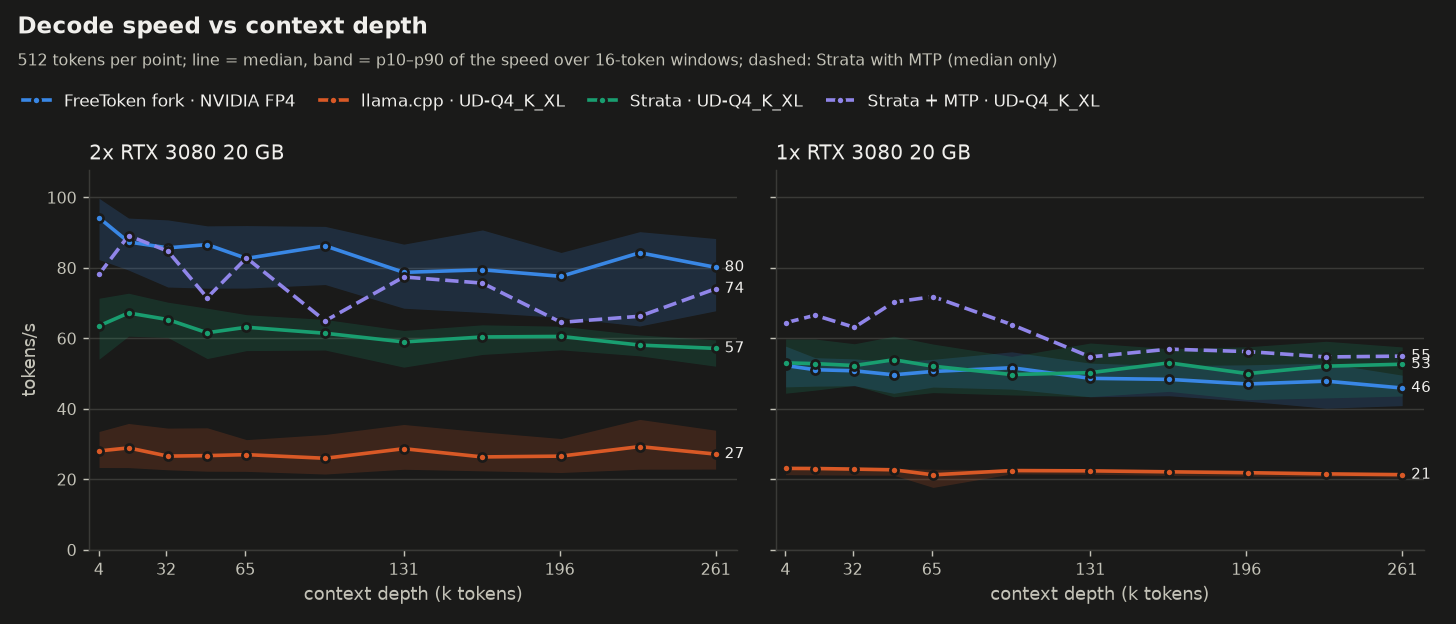
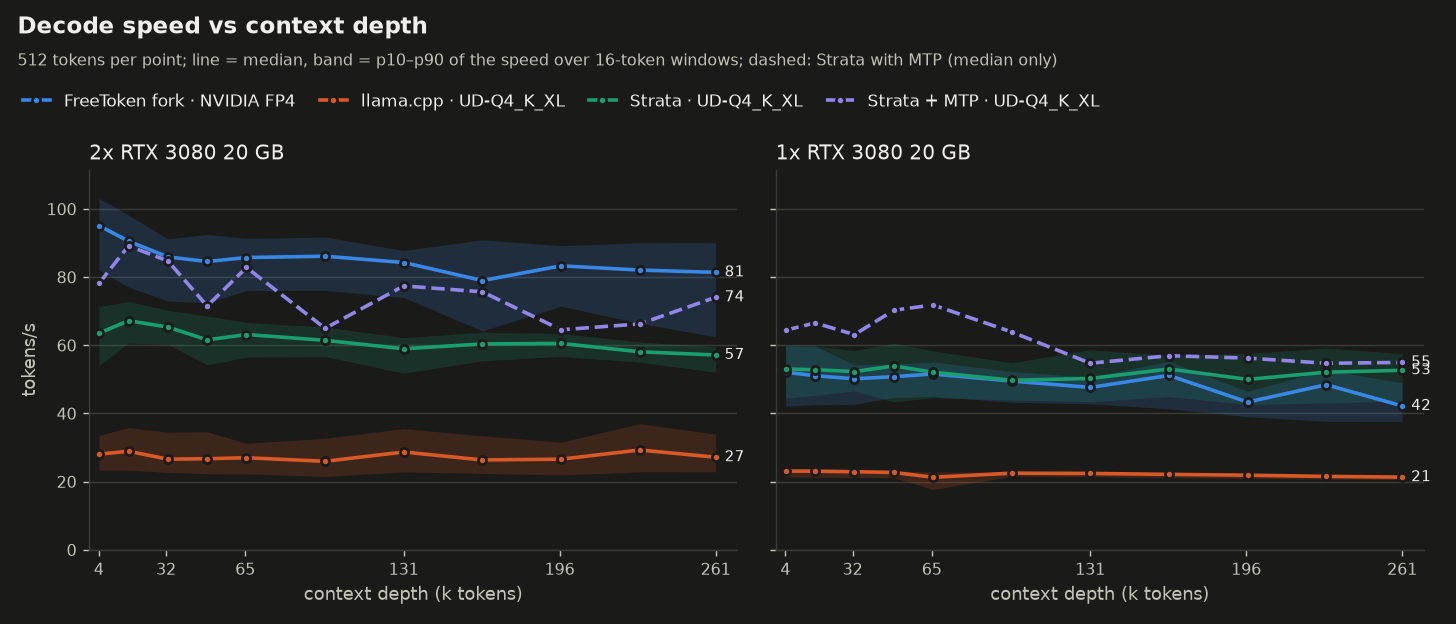
docs(readme): current per-setup numbers, short configuration guide, re-measured charts
FP4 with serve.sh defaults on main 813b883: decode, 16k prefill and max context for one and
two 16/20 GB GPUs; FreeToken's lines in the llama.cpp/Strata charts re-run (theirs kept from
2026-10-28). One 16 GB GPU now holds 208k tokens of context.

Assisted-by: Claude Opus 5.5

Changed region(s): [[0.0309, 0.3045, 0.989, 0.7003], [0.0309, 0.6394, 0.5254, 0.7917], [0.5254, 0.7308, 0.989, 0.7917]]

diff --git a/README.md b/README.md
@@ -8,37 +8,23 @@ MoE experts are pinned to host RAM. There's no setting for context length. As a 
 
 ## Benchmarks
 
-FP4 with default settings: RTX 3080s on PCIe 4.0 x8, 96 GB of DDR5. For 16GB tests I just limited my 3080 20GB to max 16GB used. Both 3080s have unlocked ReBAR and P2P.
+FP4, `scripts/serve.sh` defaults, measured 2026-11-15.
 
-### **One GPU at PCIe 4.0 x8**
+| Setup | Decode | 16k prefill (first / warm) | Max context |
+|---|---|---|---|
+| 1x 16 GB | 49 tok/s | 2,450 / 2,720 tok/s | 208k |
+| 1x 20 GB | 54 tok/s | 2,590 / 2,720 tok/s | 262k |
+| 2x 16 GB | 75 tok/s | 3,230 / 3,450 tok/s | 262k |
+| 2x 20 GB | 89 tok/s | 3,240 / 3,470 tok/s | 262k |
 
-| GPU | Prefill batch | Decode | 16k prefill | Max context (F16) |
-|---|---|---|---|---|
-| 16 GB | **8192** | 51 tok/s | **1,530 tok/s** | 147k |
-| 16 GB | 4096 | 52 tok/s | 800 tok/s | 186k |
-| 16 GB | 2048 | 52 tok/s | 900 tok/s | **205k** |
-| 20 GB | **16384** (8192 reserve) | 56 tok/s | **2,580 tok/s** | **262k** |
-| 20 GB | 4096 | 57 tok/s | 850 tok/s | 262k |
-
-### **Two GPUs at PCIe 4.0 x8**
-
-| GPU | Prefill batch | Decode | 16k prefill | Max context (F16) |
-|---|---|---|---|---|
-| 2x 16 GB | 8192 | 82 tok/s | 2,760 tok/s | 262k |
-| 2x 20 GB | 16384 (8192 reserve) | 93 tok/s | 3,270 tok/s | 262k |
-
-- **RAM:** the experts stay pinned in host RAM: 64 GiB for FP4, 59 GiB for INT4. You will need 96 GB or more RAM to use this.
-- **Prefill batch** in the tables is the setting they were measured with, before the per-chunk prefill workspace: now `ft serve` keeps a reserve for 2048-token chunks and takes up to 16384-token chunks' VRAM from the expert cache per prompt (`--prefill-batch-min`/`--prefill-batch-max`), so the context limit is that of the 2048 row. The tables were not re-measured.
-- **16384 prefill batch:** the 20 GB rows were re-measured with `serve.sh`'s 16384-token chunks, whose standing reserve covers 8192-token chunks and borrows the rest from the expert cache per prompt, so the context limit stays the same. 16k prefill there is the time to first token of the first uncached 16k-token prompt after start (later ones, with a warm expert cache: 2,780 and 3,450 tok/s); the same measurement gave 1,320 and 2,050 tok/s with 8192-token chunks before. The 16 GB rows were not re-measured.
-- **One GPU** decode is CPU-assisted: the CPU computes most of the experts missing from VRAM. These rows use this PC's calibrated split (`--moe-decode-fetch 0.15 -t 7`); the 16 GB rows reuse the 20 GB card's calibration. With `--moe-decode-fetch 1` (no CPU help) one GPU decodes at 34 tok/s (20 GB) and 27 tok/s (16 GB).
-- **INT4** downloads 169 GB instead of 96 GB. It decodes about 11% slower on two GPUs. On one GPU its CPU-assisted decode needs an AVX-512 BF16 CPU: 44 tok/s at 4k context and 42 at 100k here (`--moe-decode-fetch 0.15 -t 7`), against about 25 without CPU help.
-- **Agent turns on one GPU:** prompts up to 4096 new tokens load only their routed experts, with the CPU computing part of the misses (`--moe-routed-prefill-tokens 4096 --moe-prefill-fetch 0.35` in `serve.sh`; 3072 on two GPUs). 4096 new tokens on a cached 16k context: 4.8 -> 3.3 s on one 20 GB card; 8192 still streams faster. Both flags can be tuned for your CPU and PCIe link ([`docs/cli.md`](docs/cli.md)).
-- **Two GPUs** were measured with P2P between them (patched driver); without P2P, expect about 8% less decode.
-- **PCIe 4.0 x8:** all tests done on PCIe 4.0 x8, even single-GPU tests. If you have 4.0 x16 or even PCIe 5.0 x16, you should have much better decode and prefill.
+- **Hardware:** RTX 3080 20 GB cards, each on PCIe 4.0 x8, with P2P between them; Ryzen 7 9800X3D; 96 GB DDR5. A "16 GB" GPU is a 20 GB card with 4 GB held. A x16 or PCIe 5.0 link should be faster.
+- **Decode:** a 1024-token reply to a prose prompt. On one GPU the CPU computes most experts missing from VRAM (`--moe-decode-fetch 0.1`).
+- **16k prefill:** a 16,003-token prompt. "First" is the first prompt after start; "warm" is a later one.
+- **RAM:** the experts stay pinned in host RAM (64 GiB for FP4), so you need 96 GB or more.
 
 ### Compared with llama.cpp and Strata
 
-FreeToken runs NVIDIA's FP4; [llama.cpp](https://github.com/ggml-org/llama.cpp) (b11941) and [Strata](https://github.com/Niko1221/Strata) (0.2.7) run unsloth's [UD-Q4_K_XL](https://huggingface.co/unsloth/Qwen3.8-Flash-Next-GGUF) GGUF. 262k 16-bit KV cache, no MTP, single request.
+FreeToken measured 2026-11-15, llama.cpp and Strata 2026-10-28. FreeToken runs NVIDIA's FP4; [llama.cpp](https://github.com/ggml-org/llama.cpp) (b11941) and [Strata](https://github.com/Niko1221/Strata) (0.2.7) run unsloth's [UD-Q4_K_XL](https://huggingface.co/unsloth/Qwen3.8-Flash-Next-GGUF) GGUF. 262k 16-bit KV cache, no MTP, single request.
 
 <picture>
   <source media="(prefers-color-scheme: dark)" srcset="assets/bench/decode-dark.png">
@@ -56,7 +42,7 @@ FreeToken runs NVIDIA's FP4; [llama.cpp](https://github.com/ggml-org/llama.cpp) 
 </picture>
 
 **Settings**
-- **FreeToken:** `scripts/serve.sh` defaults, with `GPUS=0` for one GPU. On one GPU that includes CPU-assisted decode with the calibrated `--moe-decode-fetch 0.15 -t 7`.
+- **FreeToken:** `scripts/serve.sh` defaults, with `GPUS=0` for one GPU.
 - **llama.cpp on 2 GPUs:** `-cmoe --moe-cache-mib 16000 -ub 4096 -b 4096 -ts 1,1 -fa on -lm none`.
   - `-ub 2048` with a 20 GB cache decoded about 20% faster but prefilled 37% slower.
   - Without moe-cache-mib, decode was 16 tok/s.
@@ -80,21 +66,29 @@ ft checkpoint --model ~/models/q38-fp4-hf --out ~/models/ftw/q38-fp4   # one-tim
 MODEL=~/models/ftw/q38-fp4 scripts/serve.sh                      # API on :8080, chat page at /
 ```
 
-`serve.sh` uses every GPU it finds, up to two. On one GPU the CPU computes most of the experts missing from VRAM while the GPU runs the rest (`--moe-decode-fetch 0.1`). `scripts/calibrate.sh` measures the best split for your CPU, RAM and PCIe link (~12 min) and prints the flags to pass to `serve.sh`. Two GPUs don't need it: there the CPU doesn't help ([details](scripts/README.md#calibratesh-cpu-assisted-decode-fp4)).
+For INT4, download `Intel/Qwen3.8-Flash-Next-W4A16-AutoRound` instead (169 GB; FP4 is faster).
 
-For INT4, download `Intel/Qwen3.8-Flash-Next-W4A16-AutoRound` instead.
+## Configuration
 
-The default settings should already be optimized, and the context size and expert cache size automatically match your free VRAM.
+The defaults fit most setups. Context and expert cache size themselves to your free VRAM; there is no context-length setting.
 
-- one 16 GB GPU holds about 205k tokens of context: the standing prefill reserve covers 2048-token chunks (`--prefill-batch-min`), and longer prompts take their chunk's extra VRAM from the expert cache only while they prefill. `--prefill-batch-min 1024` after the script name gives a little more
-- you have 128 GB of RAM: `PREFIX_CACHE_RAM_GB=16` keeps older chat sessions in RAM, so going back to an old chat can skip prefilling from scratch
+| To | Do |
+|---|---|
+| Pick GPUs | `GPUS=1 scripts/serve.sh` (default: every GPU, up to two) |
+| Tune CPU-assisted decode (one GPU) | run `scripts/calibrate.sh` once (~12 min) and pass the flags it prints |
+| Keep old chats in RAM (128 GB machines) | `PREFIX_CACHE_RAM_GB=16 scripts/serve.sh` |
+| Get ~9k more context on 16 GB | `scripts/serve.sh --prefill-batch-min 1024` |
+| Trade a little accuracy for +5% decode (one GPU) | `scripts/serve.sh --dense-mxfp8-groups lm_head` (lossy, off by default) |
 
-See [`scripts/README.md`](scripts/README.md) for more details about options.
+Prefill chunks: `--prefill-batch-min` (2048) tokens of activation VRAM are always reserved. Longer prompts borrow what their chunk needs from the expert cache, up to `--prefill-batch-max` (16384) tokens, and give it back before decoding.
+
+Every setting: [`scripts/README.md`](scripts/README.md).
 
 ## What this fork adds
 
 - Experts in pinned host RAM behind a VRAM expert cache that grows and shrinks with the live context
 - Hybrid prefill: chunks up to 4096 tokens (3072 on two GPUs) load only their routed experts, and the CPU computes part of the cache misses while the GPU fetches the rest
+- Prefill takes only the VRAM each prompt needs and keeps decode's experts cached, so agent turns start fast
 - CPU-assisted decode on one GPU: the CPU computes most VRAM-cache misses instead of copying them over PCIe, with a one-time calibration script for the split
 - Prompt-lookup speculative decoding (`--ngram-spec`, on in `serve.sh`): lossless, no draft model; +55-61% decode when the reply repeats its context (code edits), about even on prose
 - Opt-in MXFP8 for more dense layers (`--dense-mxfp8-groups lm_head`): +5% decode on one GPU, KLD within run-to-run noise; off by default because it rounds the weights

diff --git a/scripts/README.md b/scripts/README.md
@@ -64,7 +64,7 @@ Measured on 2x RTX 3080 20GB (PCIe 4.0 x8 each), a Ryzen 7 9800X3D, 96 GB DDR5 a
 | `--enable-cache-report` | `usage.prompt_tokens_details.cached_tokens`, so clients can tell a prefix-cache hit from prefill |
 | `--moe-decode-fetch 0.1` | FP4 or INT4 on one GPU only: decode fetches 10% of its expert-cache misses over PCIe and the CPU computes the rest (FP4 28 -> 53 tok/s at 4k, 20 -> 46 at 261k; INT4 needs AVX-512 BF16). Two GPUs miss too rarely for it to pay. `calibrate.sh` finds the best value for your machine; `1` = plain decode |
 
-Prefill chunks (`ft serve` defaults, so `serve.sh` passes nothing): a chunk needs 256 MiB + 230 KiB per token of VRAM for its activations. The standing reserve covers `--prefill-batch-min` (2048) tokens at any context length, and it alone bounds the context (one 16 GB GPU: about 205k tokens). A longer prompt takes what its chunk needs beyond that from the expert cache, coldest experts first, up to `--prefill-batch-max` (16384) tokens or whatever the KV cache leaves room for, and gives it back as empty slots before its first decode step. So a 5k-token agent turn retires about 290 expert slots instead of the 1040 a fixed 16384-token borrow took. Long chunks matter because a chunk past `--moe-routed-prefill-tokens` streams every expert over PCIe once: FP4 16k prompt 12.1 -> 6.7 s on one RTX 3080 with 16384- instead of 8192-token chunks, 7.8 -> 5.3 s on two (64k: 47.5 -> 28.1 s, 30.4 -> 21.0 s). An explicit `--max-prefill-length` caps both.
+Prefill chunks (`ft serve` defaults, so `serve.sh` passes nothing): a chunk needs 256 MiB + 230 KiB per token of VRAM for its activations. The standing reserve covers `--prefill-batch-min` (2048) tokens at any context length, and it alone bounds the context (one 16 GB GPU: about 208k tokens). A longer prompt takes what its chunk needs beyond that from the expert cache, coldest experts first, up to `--prefill-batch-max` (16384) tokens or whatever the KV cache leaves room for, and gives it back as empty slots before its first decode step. So a 5k-token agent turn retires about 290 expert slots instead of the 1040 a fixed 16384-token borrow took. Long chunks matter because a chunk past `--moe-routed-prefill-tokens` streams every expert over PCIe once: FP4 16k prompt 12.1 -> 6.7 s on one RTX 3080 with 16384- instead of 8192-token chunks, 7.8 -> 5.3 s on two (64k: 47.5 -> 28.1 s, 30.4 -> 21.0 s). An explicit `--max-prefill-length` caps both.
 
 Other useful flags: `--moe-prefill-fetch` (the share of a routed prefill chunk's cache misses fetched over PCIe, the rest computed on the CPU; default 0.35 wherever the CPU kernel runs, `1` = no CPU; here 0.2 is faster for 1k-token turns but slower from 2k up), `-t`/`--threads` (CPU threads for CPU expert work, split across the GPUs; default all physical cores), `--prefill-reserve-gb` / `--vram-keep-free-mb` (CUDA OOM after a long prompt), `--dense-mxfp8-groups lm_head` (recommended for FP4: +5% decode on one GPU, rounds the lm_head to MXFP8 with no measurable KLD change; off by default because it is lossy), `--dense-fp8` (faster decode, lossy), `--moe-collect-stats` (status line with the decode miss split and CPU time).
 
@@ -82,7 +82,7 @@ For bit-reproducible A/B runs use `--moe-prefill-fetch 1` and `--moe-decode-fetc
 ### Requirements
 
 - **OS / toolchain:** Linux x86_64, NVIDIA driver r580+ (CUDA 13), CUDA 13 toolkit with `nvcc` on PATH (kernels JIT-compile on first use), `g++` (the CPU prefill extension builds with `-march=native`).
-- **GPU:** one or two with 16 GB or more. One 16 GB GPU holds about 205k tokens of context, 20 GB the full 262k. Dense weights take 8.2 GiB unsplit (5.5 GiB per GPU at TP=2), KV 25 KiB/token (6.4 GiB at 262k), the expert cache the rest.
+- **GPU:** one or two with 16 GB or more. One 16 GB GPU holds about 208k tokens of context, 20 GB the full 262k. Dense weights take 8.2 GiB unsplit (5.5 GiB per GPU at TP=2), KV 25 KiB/token (6.4 GiB at 262k), the expert cache the rest.
 - **RAM:** 96 GB class.
 - **CPU:** AVX-512 BF16 (Zen 4/5, Sapphire Rapids or newer) for CPU prefill and for INT4's CPU-assisted decode. CPU-assisted decode follows RAM bandwidth (~50 GB/s of expert reads on dual-channel DDR5).
 - **Disk:** NVMe. PLE rows are read on every token.
